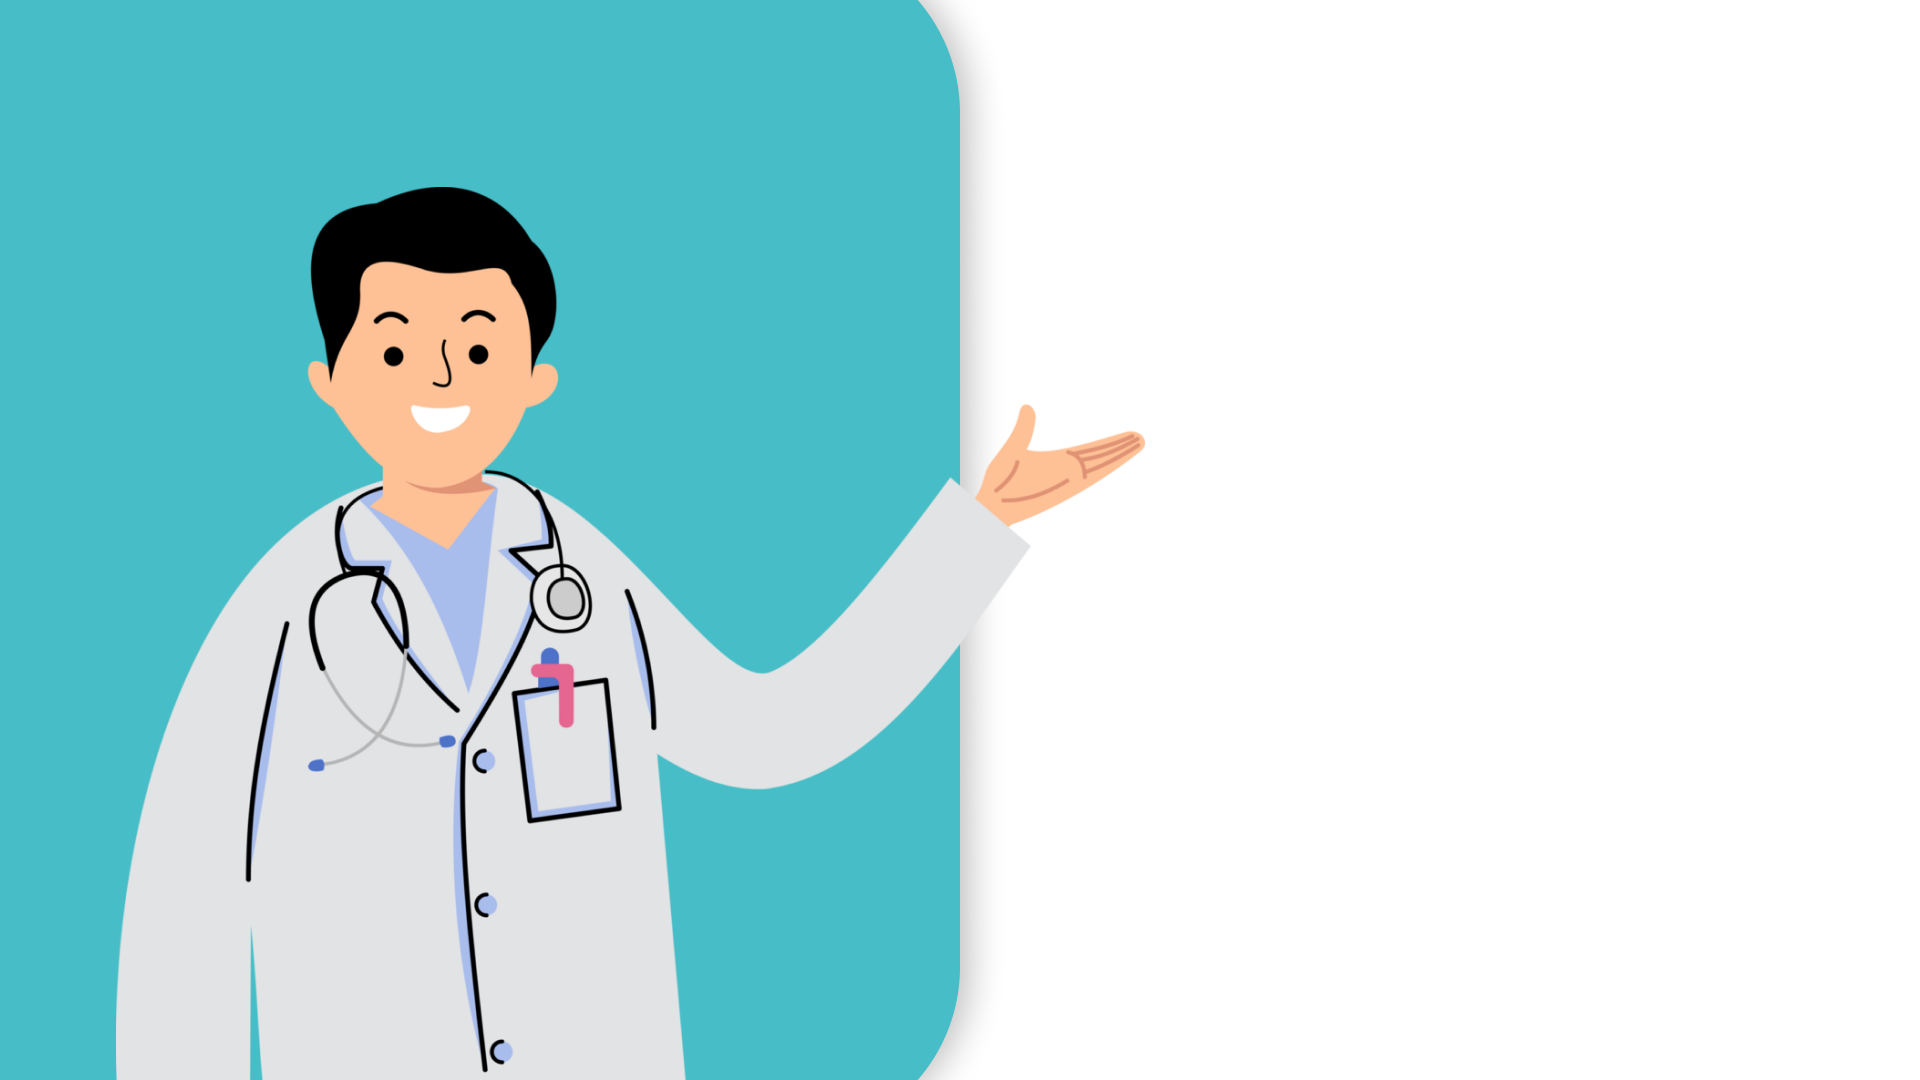
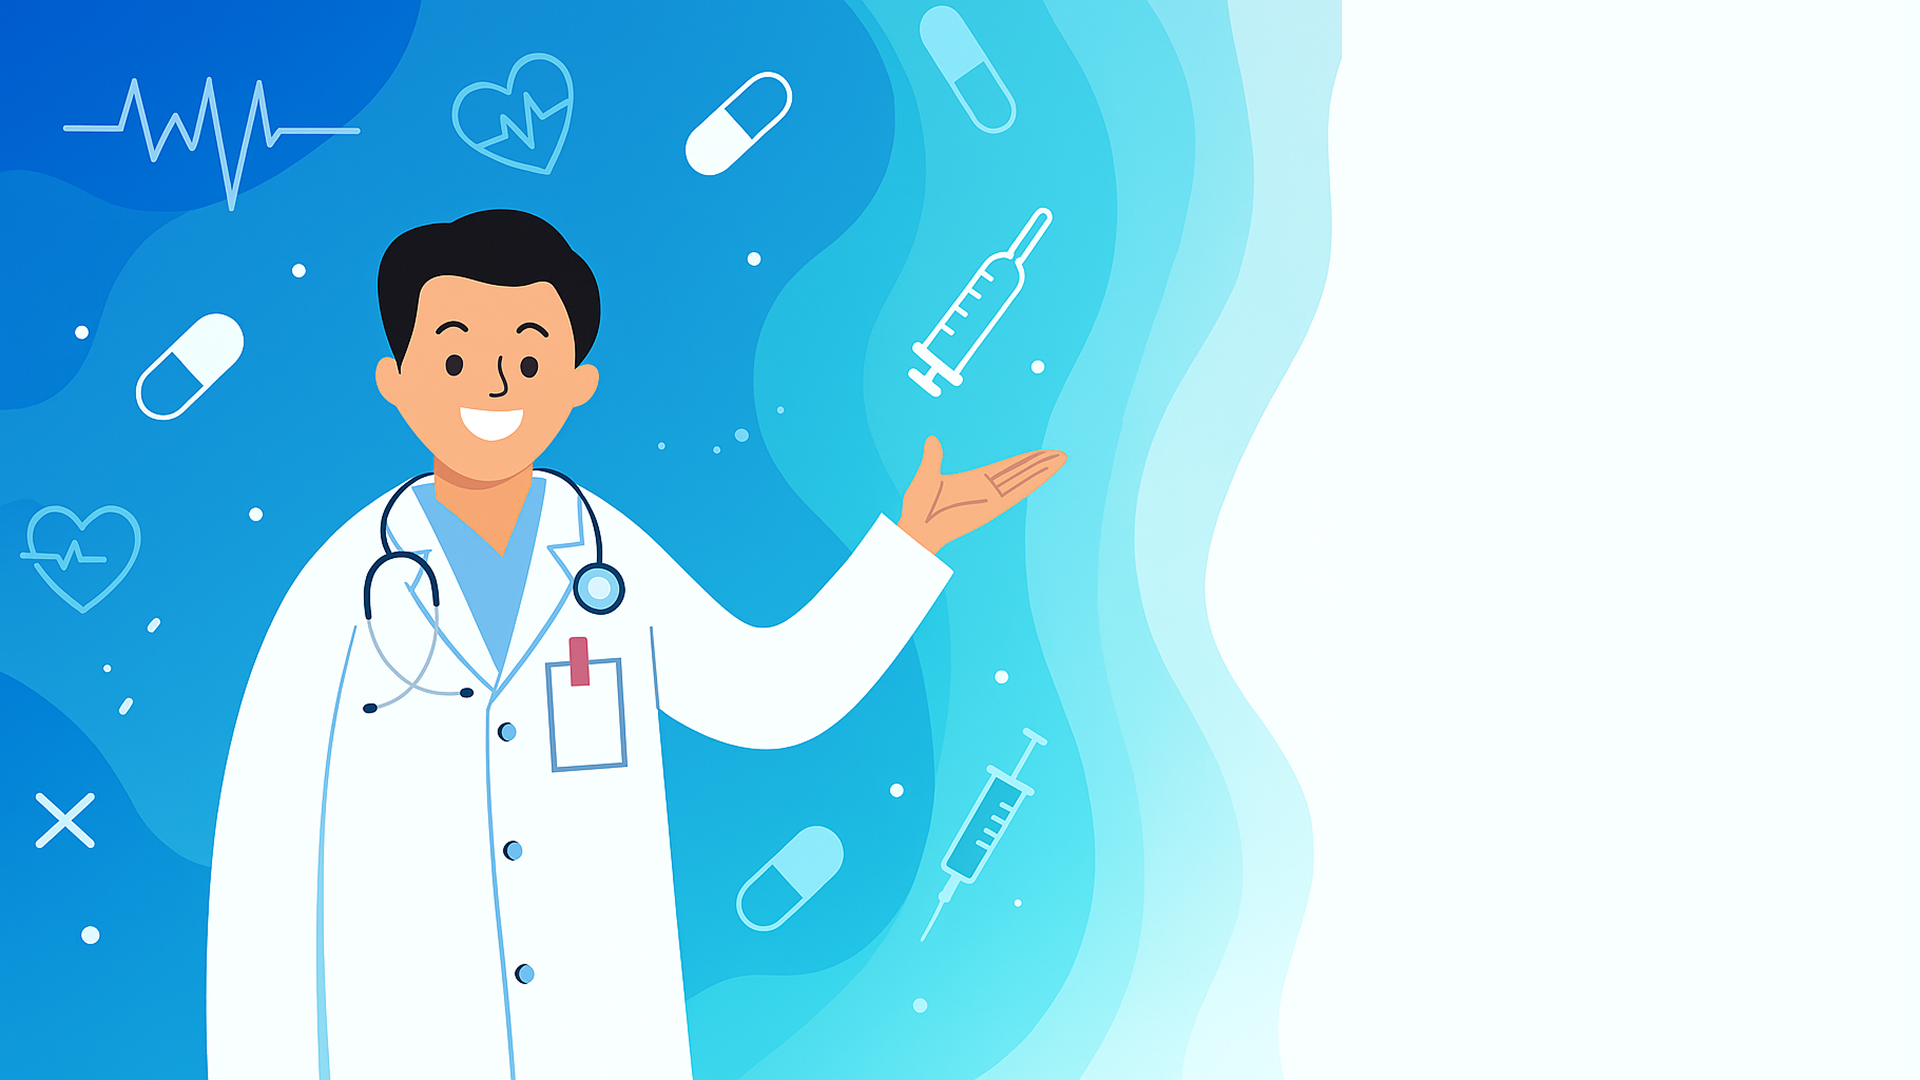
Alterando background do LOGIN

diff --git a/static/login.css b/static/login.css
@@ -24,6 +24,7 @@
   border-radius: 8px;
   font-family: Outfit, sans-serif;
   user-select: none;
+  color: #000000;
 }
 
 form.form-control {
@@ -54,7 +55,7 @@ form.form-control {
   padding-left: 10px;
 }
 .input:focus {
-  border: 1.5px solid #22b1a2;
+  border: 1.5px solid #187df0;
 }
 .input-field .label {
   position: absolute;
@@ -70,7 +71,7 @@ form.form-control {
   top: 5px;
   left: 5px;
   font-size: 12px;
-  color: #1c9288;
+  color: #0e74e7;
   background-color: #ffffff;
   padding-left: 5px;
   padding-right: 5px;
@@ -85,23 +86,27 @@ form.form-control {
   color: #ffffff;
   font-size: 18px;
   font-weight: 700;
-  background: linear-gradient(180deg, #22b1a2 0%, #1fa093 50%, #1b8a7f 100%);
+  background: linear-gradient(180deg, #0060CE 0%, #0060CE 50%, #0060CE 100%);
   box-shadow: 0px 0px 0px 0px #ffffff, 0px 0px 0px 0px #000000;
   transition: all 0.3s cubic-bezier(0.15, 0.83, 0.66, 1);
   cursor: pointer;
 }
 
 .submit-btn:hover {
-  box-shadow: 0px 0px 0px 2px #ffffff, 0px 0px 0px 4px #22b1a2;
+  box-shadow: 0px 0px 0px 2px #ffffff, 0px 0px 0px 4px #187df0;
 }
 
 
 #fala-login{
   font-family: Outfit, sans-serif;
   font-size: 1.8em;
-  margin-left: 30em;
-  margin-top: 2em;
-  color: #2ea398;
+  margin-left: 35.7em;
+  margin-top: 5em;
+  color: #000000;
   justify-content: center;
   display: flex;
+}
+
+#color-login{
+  color: #187df0;
 }

diff --git a/templates/login.html b/templates/login.html
@@ -32,12 +32,12 @@
 
   <div class="input-field">
     <input required class="input" type="text" />
-    <label class="label" for="input">Seu Email</label>
+    <label class="label" for="input">Email</label>
   </div>
 
   <div class="input-field">
     <input required class="input" type="password" />
-    <label class="label" for="input">Sua senha</label>
+    <label class="label" for="input">Senha</label>
   </div>
 
   <a href="#">Esqueci minha senha</a>
